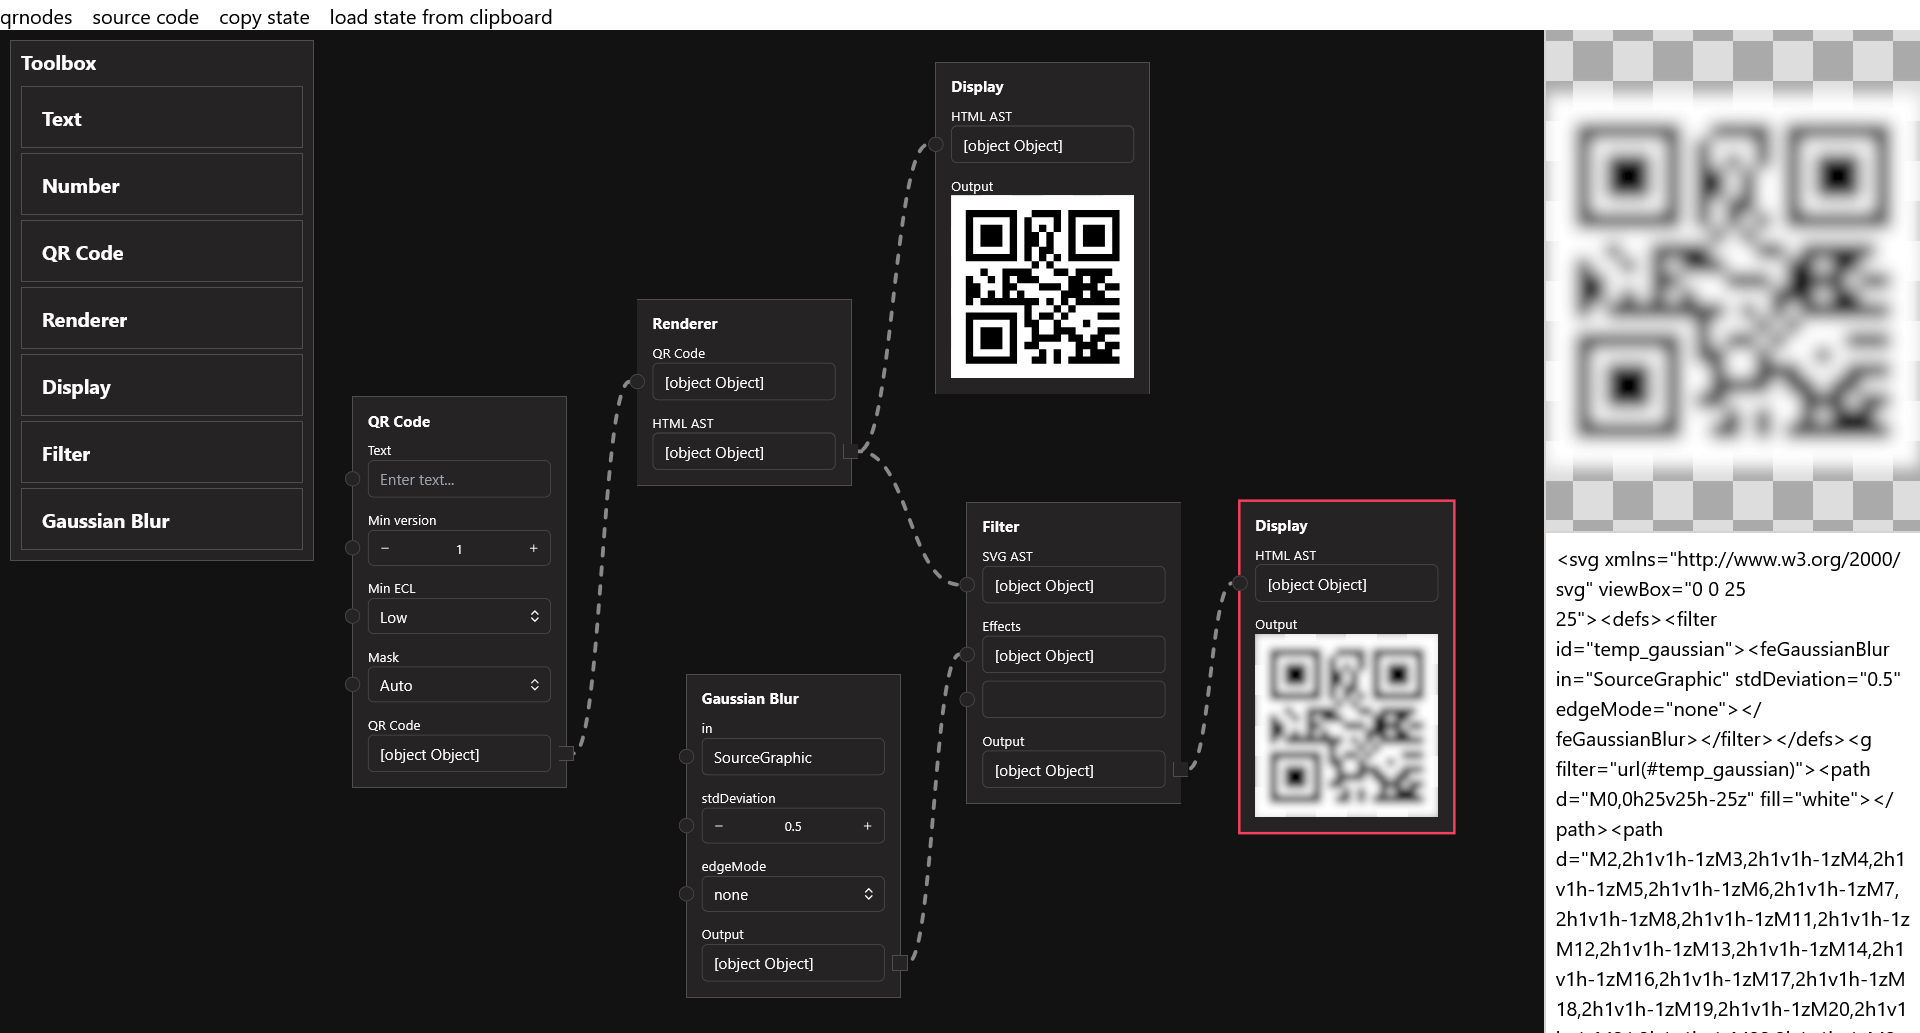
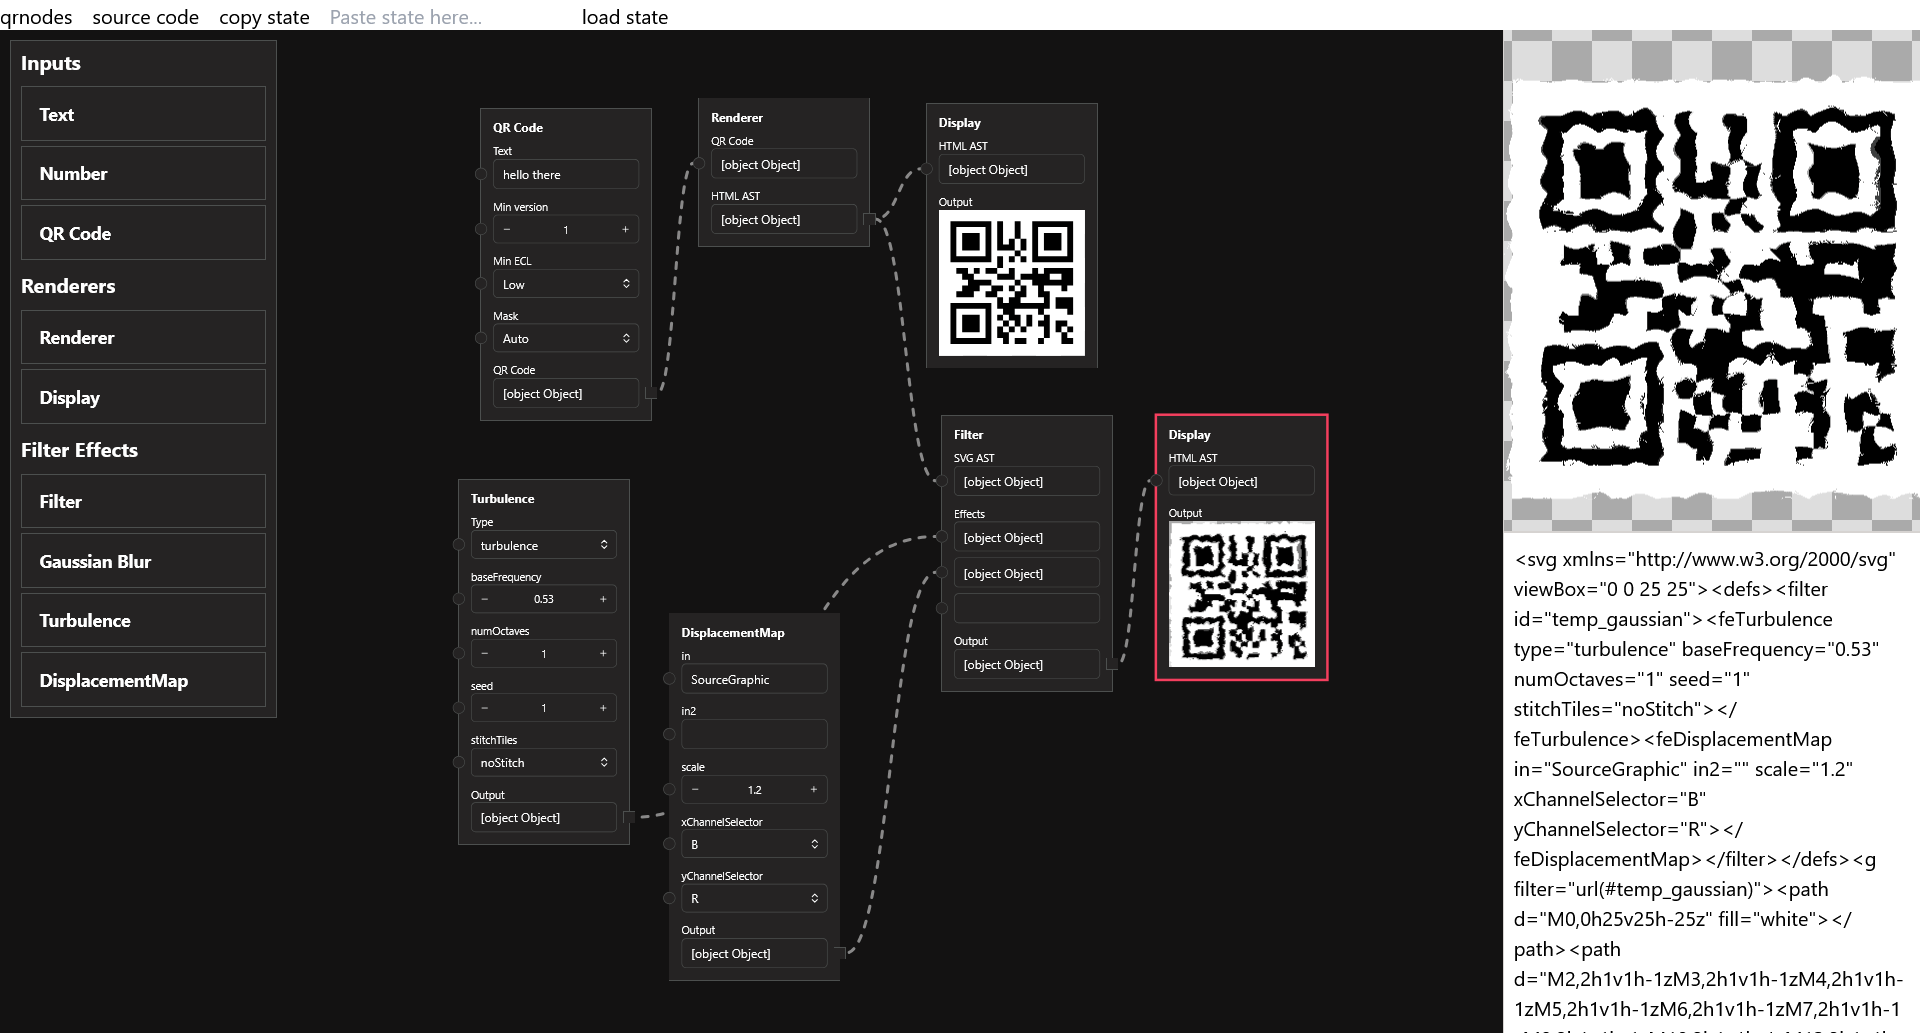
turbulence + displacement effects

diff --git a/src/components/nodes/filter.ts b/src/components/nodes/filter.ts
@@ -51,7 +51,6 @@ export const GaussianBlurNode = {
     stdDeviation: {
       type: "number",
       label: "stdDeviation",
-
       props: {
         step: 0.1,
       },
@@ -70,5 +69,89 @@ export const GaussianBlurNode = {
   },
   function: (inputs) => {
     return s("feGaussianBlur", inputs);
+  },
+} satisfies NodeDef;
+
+export const TurbulenceNode = {
+  title: "Turbulence",
+  inputDefs: {
+    type: {
+      type: "select",
+      label: "Type",
+      props: {
+        options: ["turbulence", "fractalNoise"],
+      },
+    },
+    baseFrequency: {
+      type: "number",
+      label: "baseFrequency",
+      props: {
+        step: 0.01,
+      },
+    },
+    numOctaves: {
+      type: "number",
+      label: "numOctaves",
+    },
+    seed: {
+      type: "number",
+      label: "seed",
+    },
+    stitchTiles: {
+      type: "select",
+      label: "stitchTiles",
+      props: {
+        options: ["noStitch", "stitch"],
+      },
+    },
+  },
+  outputDef: {
+    type: "hast_fe",
+    label: "Output",
+  },
+  function: (inputs) => {
+    return s("feTurbulence", inputs);
+  },
+} satisfies NodeDef;
+
+export const DisplacementMapNode = {
+  title: "DisplacementMap",
+  inputDefs: {
+    in: {
+      type: "string",
+      label: "in",
+    },
+    in2: {
+      type: "string",
+      label: "in2",
+    },
+    scale: {
+      type: "number",
+      label: "scale",
+      props: {
+        step: 0.1,
+      },
+    },
+    xChannelSelector: {
+      type: "select",
+      label: "xChannelSelector",
+      props: {
+        options: ["R", "G", "B", "A"],
+      },
+    },
+    yChannelSelector: {
+      type: "select",
+      label: "yChannelSelector",
+      props: {
+        options: ["R", "G", "B", "A"],
+      },
+    },
+  },
+  outputDef: {
+    type: "hast_fe",
+    label: "Output",
+  },
+  function: (inputs) => {
+    return s("feDisplacementMap", inputs);
   },
 } satisfies NodeDef;

diff --git a/src/components/nodes/factory.ts b/src/components/nodes/factory.ts
@@ -1,4 +1,9 @@
-import { FilterNode, GaussianBlurNode } from "./filter";
+import {
+  DisplacementMapNode,
+  FilterNode,
+  GaussianBlurNode,
+  TurbulenceNode,
+} from "./filter";
 import { TextNode, NumberNode, QrNode } from "./input";
 import { DisplayNode, RenderNode } from "./render";
 import type { NodeInfo } from "./shared";
@@ -11,6 +16,8 @@ export const NODE_DEFS = {
   display: DisplayNode,
   filter: FilterNode,
   gaussianBlur: GaussianBlurNode,
+  turbulence: TurbulenceNode,
+  displacementMap: DisplacementMapNode,
 };
 
 export const NODE_CONSTRUCTORS: {
@@ -105,7 +112,39 @@ export const NODE_CONSTRUCTORS: {
         edgeMode: [{ value: "duplicate" }],
       },
       output: {
-        value: undefined,
+        value: null,
+      },
+    }),
+  turbulence: ({ x, y }) =>
+    createNode({
+      x,
+      y,
+      key: "turbulence",
+      inputs: {
+        type: [{ value: "turbulence" }],
+        baseFrequency: [{ value: 0.2 }],
+        numOctaves: [{ value: 1 }],
+        seed: [{ value: 0 }],
+        stitchTiles: [{ value: "noStitch" }],
+      },
+      output: {
+        value: null,
+      },
+    }),
+  displacementMap: ({ x, y }) =>
+    createNode({
+      x,
+      y,
+      key: "displacementMap",
+      inputs: {
+        in: [{ value: "SourceGraphic" }],
+        in2: [{ value: "" }],
+        scale: [{ value: 1.5 }],
+        xChannelSelector: [{ value: "A" }],
+        yChannelSelector: [{ value: "A" }],
+      },
+      output: {
+        value: null,
       },
     }),
 };

diff --git a/src/components/Node.tsx b/src/components/Node.tsx
@@ -144,7 +144,9 @@ export function Node(props: NodeProps) {
         const input = toNode.inputs[toPath[1]];
         const inputDef = NODE_DEFS[toNode.key].inputDefs[toPath[1]];
         if (inputDef.array && toPath[2] === input.length - 1) {
-          setNodes(toPath[0], "inputs", toPath[1], toPath[2] + 1, {});
+          setNodes(toPath[0], "inputs", toPath[1], toPath[2] + 1, {
+            value: null,
+          });
         }
       } else {
         if (toPath == null) return;
@@ -168,7 +170,7 @@ export function Node(props: NodeProps) {
           const inputDef = NODE_DEFS[delNode.key].inputDefs[delToPath[1]];
           if (inputDef.array && input.length > 1) {
             setNodes(delToPath[0], "inputs", delToPath[1], (prevFields) =>
-              prevFields.filter((_, i) => i != delToPath![2])
+              prevFields.filter((_, i) => i !== delToPath![2])
             );
           }
         }
@@ -232,7 +234,9 @@ export function Node(props: NodeProps) {
             setGhostHead(fromId);
             setNodes(path[0], "inputs", path[1], path[2], "from", fromId);
             if (inputDef.array && path[2] === input.length - 1) {
-              setNodes(path[0], "inputs", path[1], path[2] + 1, {});
+              setNodes(path[0], "inputs", path[1], path[2] + 1, {
+                value: null,
+              });
             }
           } else {
             if (fromId == null) return;

diff --git a/src/components/Canvas.tsx b/src/components/Canvas.tsx
@@ -458,10 +458,10 @@ export function Canvas(props) {
                   const node = _node();
                   return (
                     <Index each={Object.values(node.inputs)}>
-                      {(_input) => {
-                        const input = _input();
+                      {(input) => {
+                        // filter() creates a new array, so must use signal
                         return (
-                          <For each={input}>
+                          <For each={input()}>
                             {(field) => (
                               <Show when={field.from != null}>
                                 <PlacedConnectorTail
@@ -578,7 +578,12 @@ export function Canvas(props) {
 
 const INPUT_KEYS: (keyof typeof NODE_DEFS)[] = ["text", "number", "qrCode"];
 const RENDER_KEYS: (keyof typeof NODE_DEFS)[] = ["render", "display"];
-const FILTER_KEYS: (keyof typeof NODE_DEFS)[] = ["filter", "gaussianBlur"];
+const FILTER_KEYS: (keyof typeof NODE_DEFS)[] = [
+  "filter",
+  "gaussianBlur",
+  "turbulence",
+  "displacementMap",
+];
 
 function Toolbox(props) {
   const { addNode, setActiveIds } = useNodesContext();

diff --git a/src/components/context/NodesContext.tsx b/src/components/context/NodesContext.tsx
@@ -35,12 +35,21 @@ export function NodesContextProvider(props: { children: JSX.Element }) {
     batch(() => {
       nodes.forEach((node) => {
         if (node == null) return;
+        const inputDefs = NODE_DEFS[node.key].inputDefs;
         Object.entries(node.inputs).forEach(([key, input]) => {
+          const removed: number[] = [];
           input.forEach((field, j) => {
             if (field.from != null && ids.includes(field.from)) {
               setNodes(node.id, "inputs", key, j, "from", null);
+              removed.push(j);
             }
           });
+
+          if (removed.length && inputDefs[key].array) {
+            setNodes(node.id, "inputs", key, (prevFields) =>
+              prevFields.filter((_, i) => !removed.includes(i))
+            );
+          }
         });
       });
       ids.forEach((id) => {

diff --git a/README.md b/README.md
@@ -7,6 +7,7 @@ node-based editor for QR codes
 ## Todo
 
 - text selected by select box in chrome (preventDefault breaks input focus events)
+- allow reorder array inputs
 
 ## Inspiration
 
